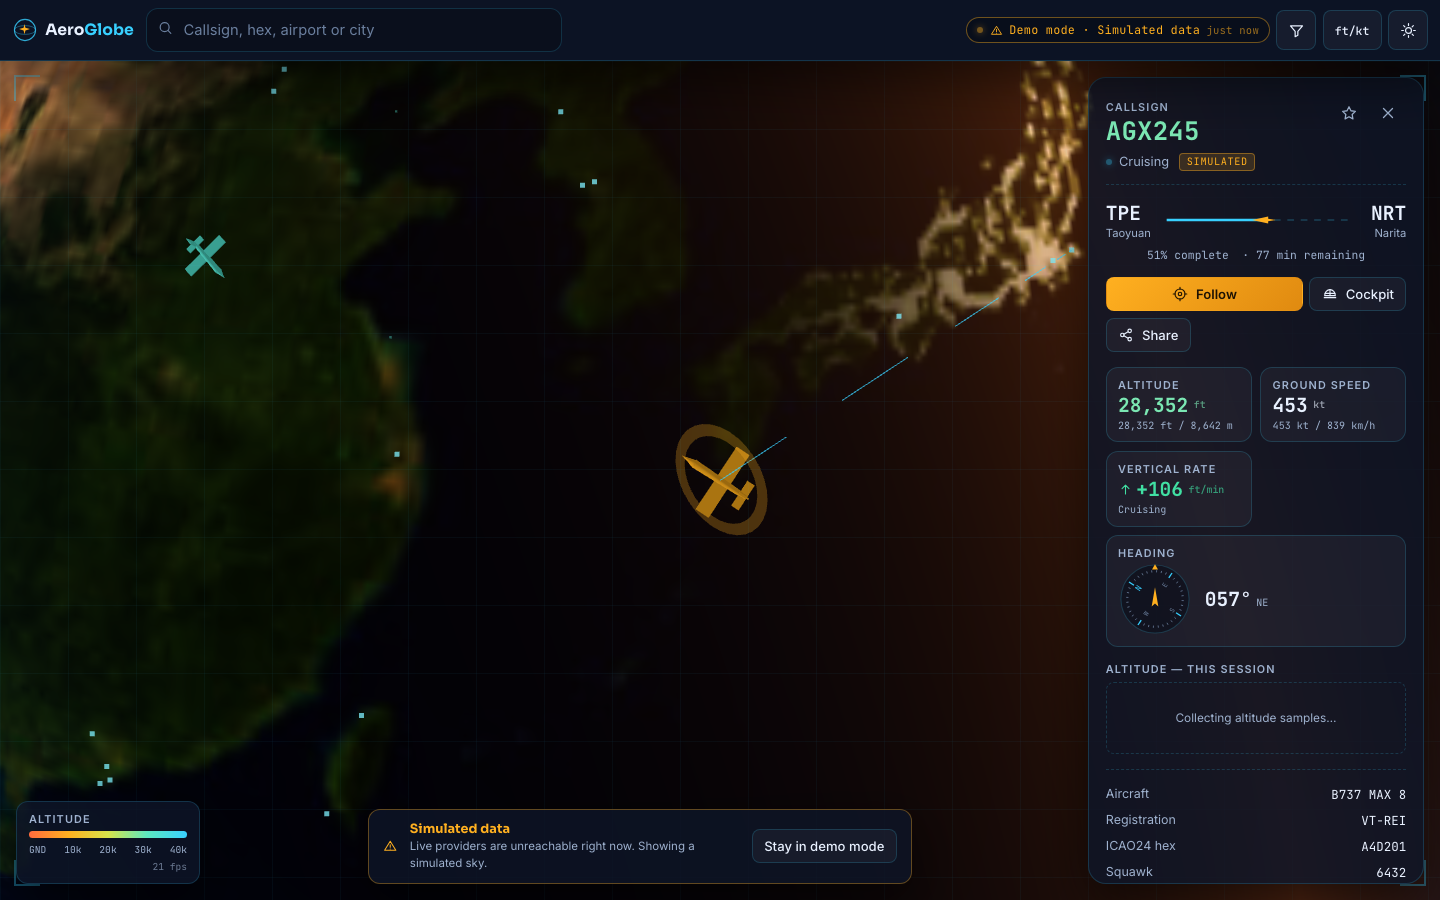
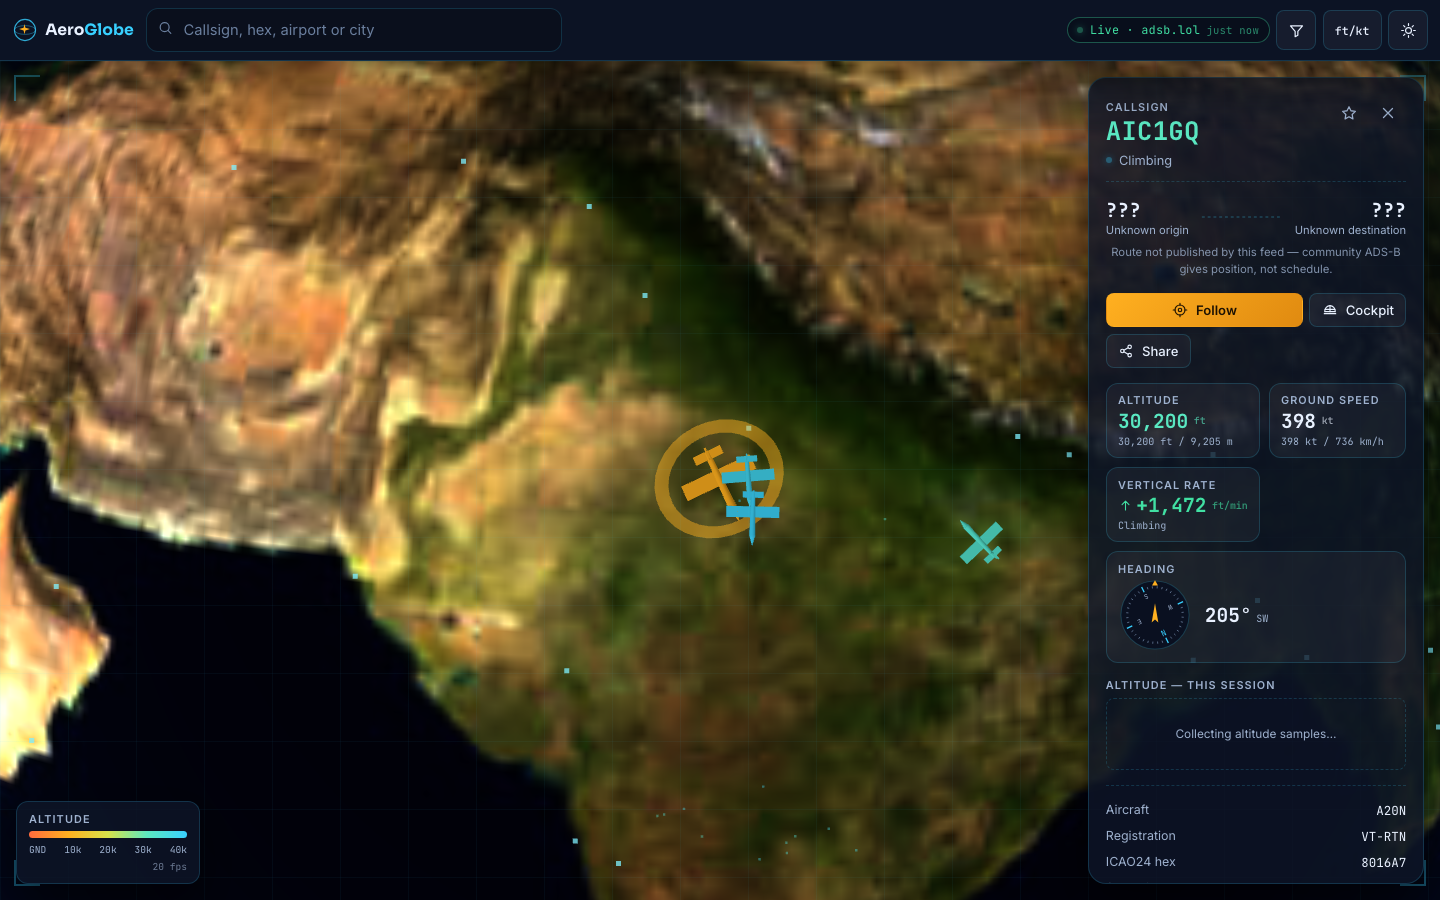
Polish: open the tracker closer so aircraft are legible; refresh screenshots

diff --git a/src/lib/three/globe.ts b/src/lib/three/globe.ts
@@ -76,12 +76,15 @@ export class AeroGlobe {
 	private visibleAirports: Airport[] = [];
 
 	// Camera state (spherical, eased every frame)
+	// Open over well-covered airspace (northern India) and close enough that individual
+	// aircraft read as aircraft rather than dots. The opening distance is slightly wider
+	// than the target so the camera eases in on load.
 	private targetLat = 22;
 	private targetLon = 78;
-	private targetDistance = GLOBE_RADIUS * 2.6;
+	private targetDistance = GLOBE_RADIUS * 1.85;
 	private curLat = 22;
 	private curLon = 78;
-	private curDistance = GLOBE_RADIUS * 3.4;
+	private curDistance = GLOBE_RADIUS * 2.6;
 	private autoRotate = false;
 	private autoRotateSpeed = 1.6; // deg/s
 
@@ -413,6 +416,12 @@ export class AeroGlobe {
 
 	setAutoRotate(on: boolean) {
 		this.autoRotate = on;
+		// The landing hero reads better with the whole planet in frame; the tracker opens
+		// closer so aircraft are immediately legible.
+		if (on) {
+			this.targetDistance = GLOBE_RADIUS * 2.45;
+			this.curDistance = GLOBE_RADIUS * 2.9;
+		}
 	}
 
 	setReducedMotion(on: boolean) {
